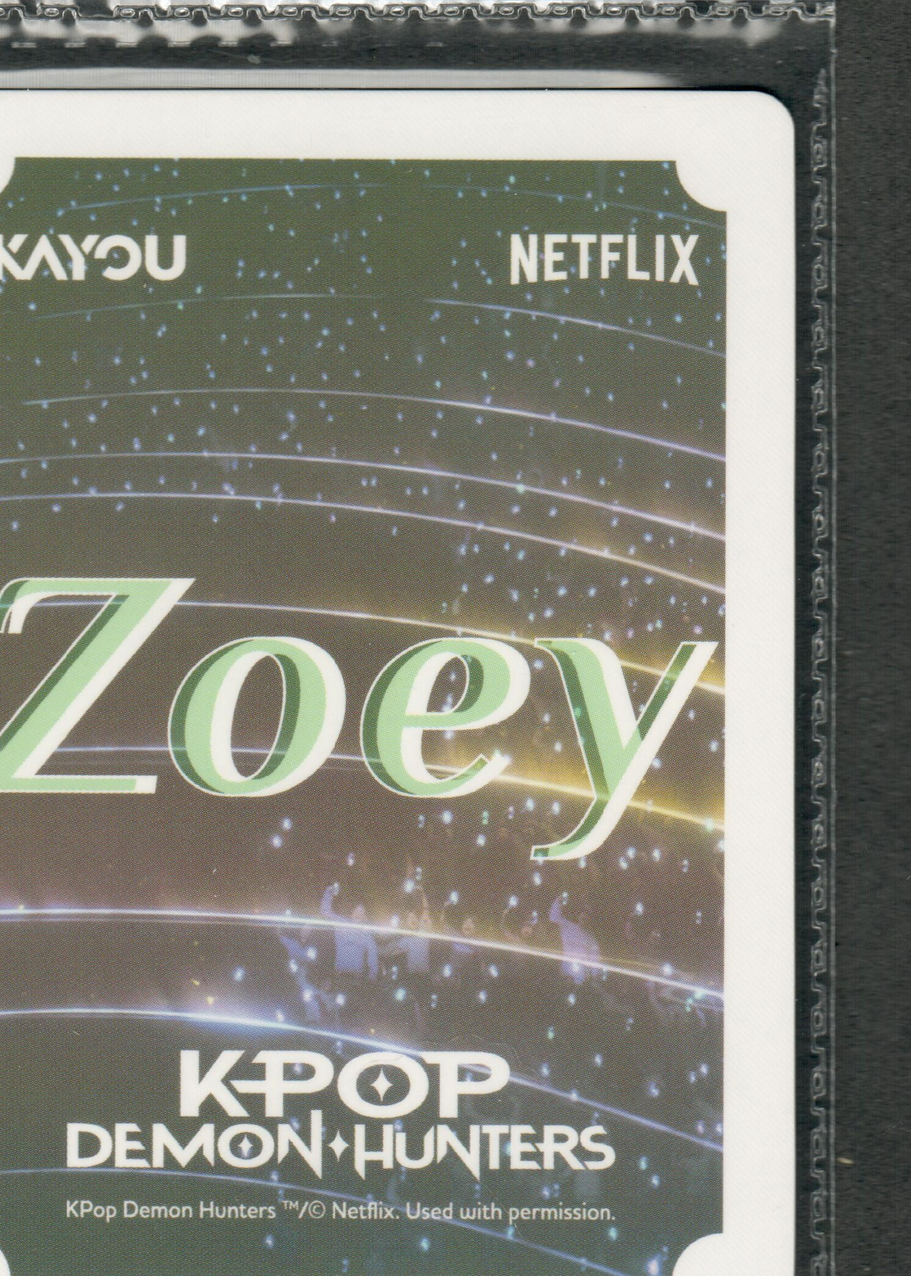
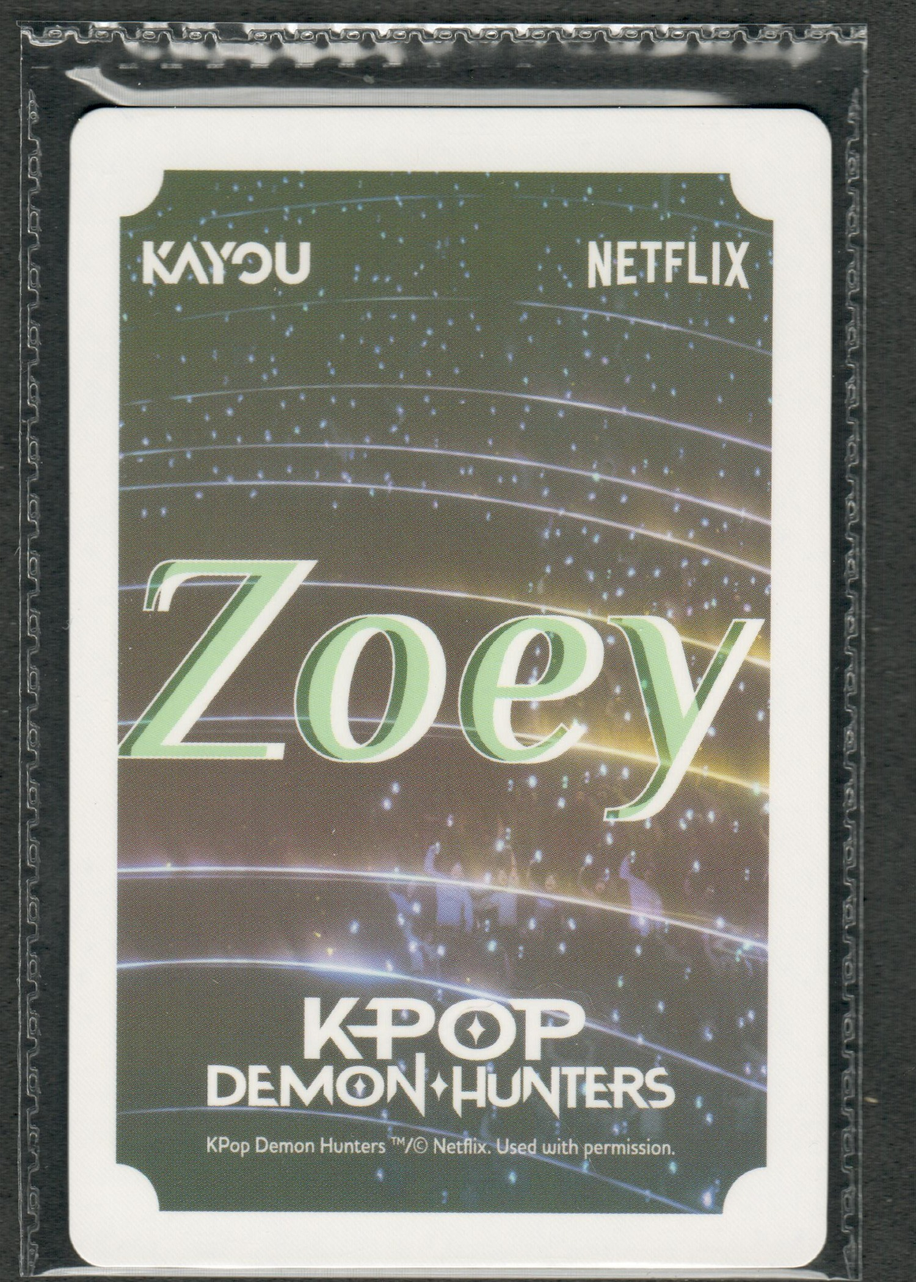
Center KPDH PR1 promo scans
Use measured four-corner perspective correction so the full sealed sleeve remains visible with an even margin on every PR1 front and back.\n\nCo-Authored-By: OpenAI Codex <noreply@openai.com>

diff --git a/kpdh-binder/scripts/build_promo_scans.py b/kpdh-binder/scripts/build_promo_scans.py
@@ -74,6 +74,19 @@ ROTATIONS = {
     ("scan0330", "kpdh01-pr1-03"): 0.0,
 }
 
+# Four outer sleeve corners in full-sheet coordinates, ordered upper-left,
+# lower-left, lower-right, upper-right for Pillow's QUAD transform. Unlike a
+# rotation followed by a center crop, these measurements correct perspective and
+# retain every sleeve edge even when a card was not centered in its original box.
+QUADS = {
+    ("scan0329", "kpdh01-pr1-01"): (2920, 270, 2910, 2470, 4500, 2510, 4510, 300),
+    ("scan0329", "kpdh01-pr1-02"): (800, 2140, 900, 4500, 2580, 4380, 2490, 2080),
+    ("scan0329", "kpdh01-pr1-03"): (2780, 3480, 2770, 5750, 4430, 5780, 4430, 3500),
+    ("scan0330", "kpdh01-pr1-01"): (2750, 400, 2750, 2590, 4380, 2630, 4400, 430),
+    ("scan0330", "kpdh01-pr1-02"): (760, 2010, 700, 4310, 2400, 4390, 2440, 2070),
+    ("scan0330", "kpdh01-pr1-03"): (2600, 3650, 2600, 5850, 4310, 5850, 4300, 3650),
+}
+
 
 def extract_embedded_jpeg(pdf: Path) -> bytes:
     """Return the single full-page JPEG stream embedded in a scanner PDF."""
@@ -124,16 +137,42 @@ def squared_crop(crop: Image.Image, angle: float) -> Image.Image:
     return rotated.crop((left, top, left + safe_width, top + safe_height))
 
 
+def perspective_crop(source: Image.Image, quad: tuple[int, ...]) -> Image.Image:
+    """Square one sleeve from its four corners and retain a uniform outer margin."""
+    points = [(quad[index], quad[index + 1]) for index in range(0, 8, 2)]
+    center_x = sum(point[0] for point in points) / 4
+    center_y = sum(point[1] for point in points) / 4
+
+    # Expanding the measured sleeve quadrilateral by 3% keeps a narrow strip of
+    # scanner bed around all four sides. That makes the sleeve boundary visible
+    # in the detail modal instead of letting it disappear against the image edge.
+    expanded = tuple(
+        coordinate
+        for x, y in points
+        for coordinate in (
+            round(center_x + (x - center_x) * 1.03),
+            round(center_y + (y - center_y) * 1.03),
+        )
+    )
+    return source.transform(
+        (1500, 2100),
+        Image.Transform.QUAD,
+        expanded,
+        resample=Image.Resampling.BICUBIC,
+    )
+
+
 def save_card(
     source: Image.Image,
     box: tuple[int, int, int, int],
     angle: float,
+    quad: tuple[int, ...] | None,
     full: Path,
     thumb: Path,
 ) -> None:
     """Crop one reviewed card and save its full and thumbnail publishing assets."""
-    crop = ImageOps.exif_transpose(source).crop(box).convert("RGB")
-    crop = squared_crop(crop, angle)
+    source = ImageOps.exif_transpose(source).convert("RGB")
+    crop = perspective_crop(source, quad) if quad else squared_crop(source.crop(box), angle)
     full.parent.mkdir(parents=True, exist_ok=True)
     thumb.parent.mkdir(parents=True, exist_ok=True)
     crop.save(full, "JPEG", quality=92, optimize=True, progressive=True, dpi=(600, 600))
@@ -153,6 +192,7 @@ def build(intake: Path, temporary: Path) -> None:
                     sheet,
                     box,
                     ROTATIONS[(stem, code)],
+                    QUADS.get((stem, code)),
                     ROOT / "cards" / folder / f"{code}.jpg",
                     ROOT / "cards" / "thumbs" / folder / f"{code}.webp",
                 )

diff --git a/tests/test_kpdh_series2.py b/tests/test_kpdh_series2.py
@@ -188,6 +188,9 @@ def test_kpdh_promo_crops_are_squared_to_physical_card_ratios():
                 assert abs(image.width / image.height - expected_ratio) < 0.001
 
     builder = (BINDER / "scripts" / "build_promo_scans.py").read_text(encoding="utf-8")
-    assert '("scan0329", "kpdh01-pr1-02"): -3.3' in builder
-    assert '("scan0330", "kpdh01-pr1-02"): 2.0' in builder
+    assert '("scan0329", "kpdh01-pr1-02"):' in builder
+    assert '("scan0330", "kpdh01-pr1-02"):' in builder
+    assert "def perspective_crop(" in builder
+    assert "Image.Transform.QUAD" in builder
+    assert "* 1.03" in builder
     assert "def squared_crop(" in builder

diff --git a/docs/kpdh_series2_plan.md b/docs/kpdh_series2_plan.md
@@ -35,6 +35,8 @@ its unrelated dashboard and operations commits.
   the 2026-10-29 lime evidence markers is tagged
   `kpdh-binder-planner:rollback-20261029-pre-evidence-markers`. The image immediately before
   the physical promo scans is tagged `kpdh-binder-planner:rollback-20261106-pre-promo-scans`;
+  PR1 scans use measured four-corner perspective correction rather than a centered rotation
+  crop, keeping all sleeve edges visible and centered despite uneven placement on the sheet;
   the first unstraightened promo deployment is tagged
   `kpdh-binder-planner:rollback-20261106-pre-square-scans`.
 
